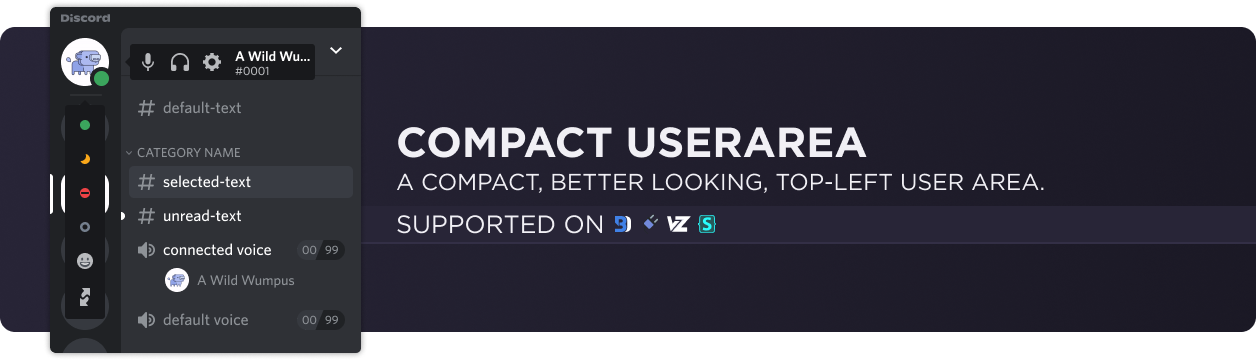
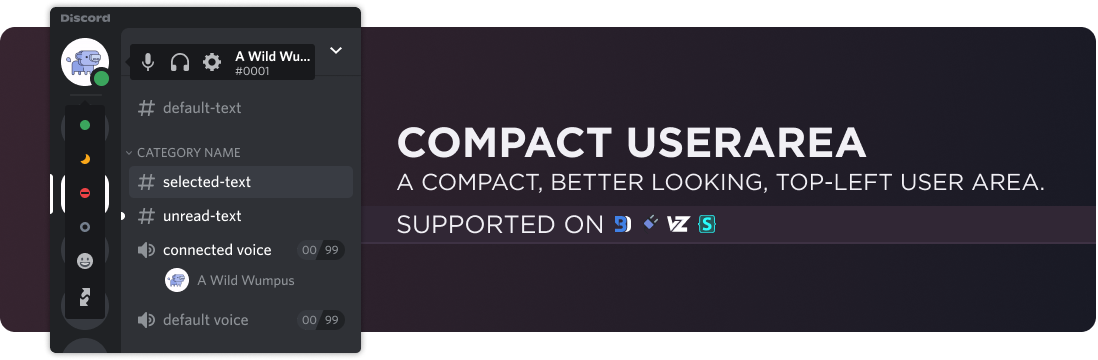
repo organization
BetterDiscord and Stylus reinstall required

diff --git a/clients/bd/CompactUserarea.theme.css b/clients/bd/CompactUserarea.theme.css
@@ -1,6 +1,6 @@
 /**
     * @name Compact Userarea
-    * @version 1.5.2
+    * @version 1.5.0
     * @description A compact, better looking, top-left user area.
     * @author LuckFire
     *
@@ -8,8 +8,4 @@
     * @source https://github.com/discord-extensions/compact-userarea/
 **/
 
-@import url('https://discord-extensions.github.io/compact-userarea/support/compiled.css');
-
-:root {
-    --container-color: var(--background-floating);
-}
+@import url('https://discord-extensions.github.io/compact-userarea/src/source.css');

diff --git a/clients/stylus/CompactUserarea.user.css b/clients/stylus/CompactUserarea.user.css
@@ -4,8 +4,8 @@
     @description  A compact, better looking, top-left user area.
     @author       LuckFire
     @namespace    https://github.com/discord-extensions/compact-userarea/
-    @version      1.5.2
+    @version      1.5.0
     ==/UserStyle== */
 
-    @import url('https://discord-extensions.github.io/compact-userarea/support/compiled.css');
+    @import url('https://discord-extensions.github.io/compact-userarea/src/source.css');
 }

diff --git a/src/source.scss b/src/source.scss
@@ -1,0 +1,3 @@
+@use 'base';
+@use './modules/os';
+@use './modules/animations';

diff --git a/README.md b/README.md
@@ -8,15 +8,14 @@ https://github.com/discord-extensions/compact-userarea
 ```
 
 ### **[BetterDiscord](https://betterdiscord.app/)**
-- [Website Page](https://betterdiscord.app/theme/Compact%20Userarea)
-- [Direct Download](https://betterdiscord.app/Download?id=165)
-- [Source](https://discord-extensions.github.io/compact-userarea/support/compiled.css)
+- [Direct Download](https://github.com/discord-extensions/compact-userarea/releases/download/betterdiscord/CompactUserarea.theme.css)
+- [Source](https://discord-extensions.github.io/compact-userarea/src/source.css)
 
 ### **Stylus**
 1. Install the browser extension for your respective browser.
     - [Chrome Webstore](https://chrome.google.com/webstore/detail/stylus/clngdbkpkpeebahjckkjfobafhncgmne)
     - [Firefox Addons](https://addons.mozilla.org/en-US/firefox/addon/styl-us/)
-2. Once you have the browser extension, head over to [this link](https://github.com/discord-extensions/compact-userarea/raw/main/support/modern-indicators.user.css). It will open a new window to the page to install the style.
+2. Once you have the browser extension, head over to [this link](https://github.com/discord-extensions/compact-userarea/raw/main/clients/stylus/modern-indicators.user.css). It will open a new window to the page to install the style.
 3. Press the "Install Style" button.
 
 # Conflicting Issues
@@ -28,3 +27,4 @@ Below are some known themes / plugins that will cause conflict with this theme a
 - [Frosted Glass](https://github.com/DiscordStyles/FrostedGlass) may cause some things to be positioned incorrectly, pretty much making it unuseable.
 - [Spotify Discrd](https://github.com/CapnKitten/Spotify-Discord) will have slight displacement with the avatar, status picker items will be messed up, and the bar at the bottom will be a bit broken because the userarea is moved.
 - [Horizontal Sever List](https://github.com/DiscordStyles/HorizontalServerList) will interfere with the buttons and overlap with the server list, making it difficult to press some things.
+- [Lavender](https://github.com/Lavender-Discord/Lavender) will make the userarea entirely disappear.
